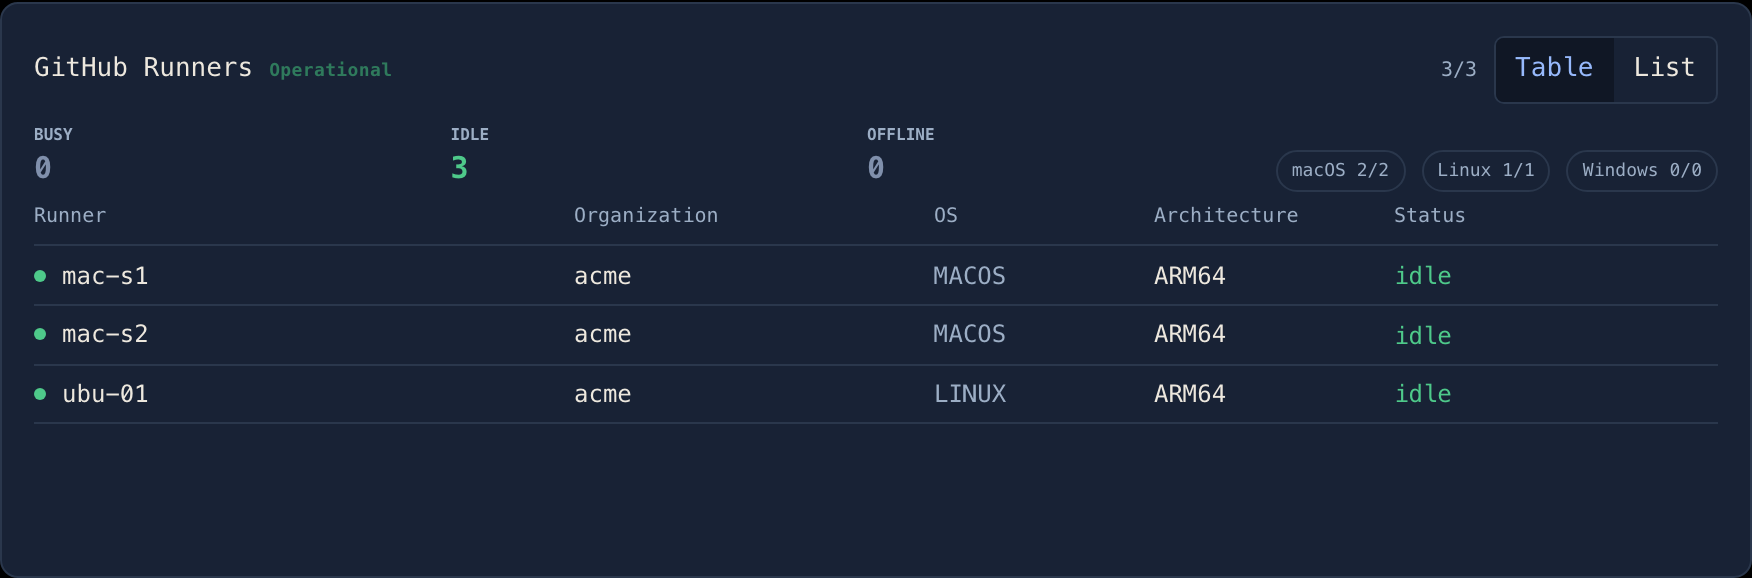
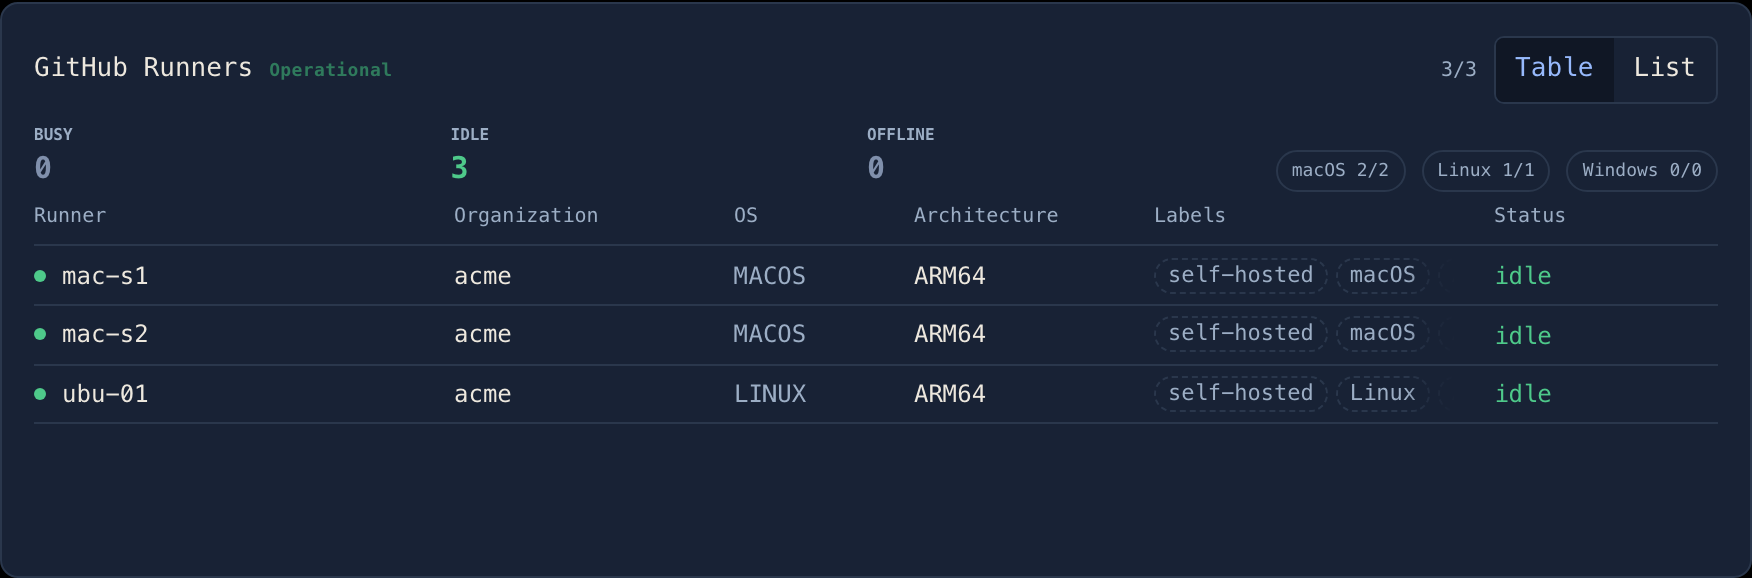
docs: where a setting lives, and runner groups that split only where a label appears
app/README.md gains a Where a setting lives section: the four placement
rules, runner group labels as the worked example, and today's inventory
with follow-ups #612-#616 for what does not fit yet. The runner-group,
roster and smoke-check passages, AGENTS.md and the root README now say the
labels live in the Runners tile's Configure, a platform splits only where a
listed label appears, and an unrecorded runner joins other. Screenshots
regenerated for the Labels column.

diff --git a/app/README.md b/app/README.md
@@ -173,25 +173,51 @@ members. **Open full panel** carries the selected group into Full; the tile's
 choice applies to both Detail and Full; List stays in one vertical column.
 In Full, **All runners** clears the temporary filter, and returning to Overview
 restores the inline Detail selection. Membership and counts follow live readings
-in both views; a type with no remaining members says so instead of showing other
-types. Full runner rows include architecture and retain the absent runner's
-Forget action.
+in both views; a group with no remaining members says so instead of showing
+other groups. Full runner rows include architecture and labels and retain the
+absent runner's Forget action. A long group name wraps in a small tile rather
+than being cut off.
+Detail and Full show each runner's **labels** as chips, in a Labels column and
+on each List row: the label that decided its group is highlighted, GitHub's own
+(`self-hosted`, the OS, the architecture) are muted, and a remembered absence
+whose labels were never recorded reads `— not recorded`. Chips lead with the
+label that matched, then your own, then GitHub's. A List row wraps them; a table
+cell keeps its row compact on one line, so a narrow cell gives up GitHub's
+labels first (the OS and Architecture columns already say them), and its
+tooltip names every label. The Labels column has a base width like every other
+column, so it does not push **Status** out of a half-width Full panel. A group opened in
+Detail or Full names what put its runners there: `matched by runner-large`, or
+for `other`, `carries none of your group labels` — with `· 2 not recorded`
+appended when some of its runners' labels were never recorded, and `labels not
+recorded` when none were.
 Table supports the context-menu key or Shift+F10 on an absent runner as well as
 right-click. Full panels share Detail's palette and heading style; focused Full
 panels fit their rows rather than reserving an empty list area.
 Architecture comes from GitHub's ARM64, X64 or ARM labels and survives in the
 absence roster. Missing or conflicting labels render Unknown architecture.
-**Runner group labels** (Settings → Preferences) split each type further, by
-labels your runners carry: list `runner-large` and Linux · X64 becomes
-`LINUX · X64 · runner-large` and `LINUX · X64 · other`. A runner joins the group
-of the first listed label it carries, matched ignoring ASCII case the way GitHub
-matches `runs-on`; one carrying none is `other`. Nothing is listed until you
-list it, and with nothing listed the types are exactly OS · architecture. Each
-listed label says how many runners carry it (`runners not read yet` before the
-first read), so a typo that would put every runner in `other` shows where it
-was typed. Every label survives in the absence roster too, so a recycling
-runner keeps its group; a roster record from before labels were stored reads
-`labels unknown` under a split — never `other` — until its next sighting.
+**Runner group labels** split a type further, by labels your runners carry.
+They are edited in any Runners tile's **Configure**, under **Group by labels**:
+a shared setting, saved on the click, that applies everywhere runners appear —
+every Runners tile and the Full view (see [Where a setting
+lives](#where-a-setting-lives)). **A type splits only where a listed label
+appears**: list `runner-large` and, if a Linux · X64 runner carries it, Linux ·
+X64 becomes `LINUX · X64 · runner-large` and `LINUX · X64 · other`, while a type
+where no runner carries it stays one plain `OS · ARCH` group with no `· other`.
+The split is decided across every runner Solador knows — every organization,
+registered runners and remembered absences — never per tile, so a group means
+the same thing in a tile, its Detail and Full. A runner joins the group of the
+first listed label it carries, matched ignoring ASCII case the way GitHub
+matches `runs-on`; one carrying none is `other`. **Move up** / **Move down**
+reorder the list, which is the order that first match reads. Nothing is listed
+until you list it, and with nothing listed the types are exactly OS ·
+architecture. Each listed label says how many runners carry it (`runners not
+read yet` before the first read), so a typo that would put every runner in
+`other` shows where it was typed, and labels your runners carry that are not
+listed appear under **Seen on your runners**, one click from being added. Every
+label survives in the absence roster too, so a recycling runner keeps its
+group; a roster record from before labels were stored joins `other` (or the
+plain group, where there is no split) until its next sighting, and keeps its
+alarm — a missing runner still turns its group red.
 The group is decided once per runner row in Rust (`groupId`, `groupLabel`,
 `groupRank`), and the tile, Detail and Full all read it, so a group always
 opens onto the runners it counted.
@@ -341,6 +367,47 @@ the tile check. A further placement check verified the native dropdown, live
 order preview, duplication beside the original, explicit insertion after
 Runners, focus on the saved tile, and Undo back to the original layout. Return
 in the position picker did not save the draft. See the recorded runs below.
+
+### Where a setting lives
+
+One rule decides where a control goes, so an operator looking for a setting
+looks where it acts:
+
+| # | If the setting… | It lives in… |
+|---|---|---|
+| 1 | changes what a tile shows | that tile's **Configure** |
+| 2 | is about reaching a source (token, account, host, address, or the opt-in to read another program's sign-in) | **Settings → Connections**. The tile's Configure links there instead of copying the control. |
+| 3 | is app-wide, with no single tile behind it (crash reporting, updates, Full view layout) | **Settings** |
+| 4 | is shared by several places | can be edited from a tile's Configure, but the control **says it is shared** |
+
+In-place actions on an item, such as hiding a volume from the Disk strip or
+acknowledging a warning in Detail, are shortcuts, not homes, and are not ruled
+on here.
+
+**Worked example: runner group labels** (rule 4). The labels change what every
+Runners tile and the Full view show, so they are edited where the groups are
+seen, in a Runners tile's Configure → **Group by labels**, and the section says
+`Shared · saved immediately · applies everywhere runners appear: every Runners
+tile and the Full view.` They save on the click (`runner_group_label_add` /
+`_move` / `_remove`), not with the tile's **Save**, because a shared list cannot
+wait on one tile's draft. They used to live under Settings → Preferences, apart
+from the groups they split, where an operator who had just added one could not
+find it.
+
+**Where things are today**, and the follow-up that applies the pattern to what
+does not fit it yet:
+
+| Setting | Lives in | Fits? |
+|---|---|---|
+| Rows to show, repo checklist, sorting, Disk strip, runner view | the tile's Configure | rule 1 |
+| Runner group labels | Runners tile Configure, marked shared | rule 4 |
+| Accounts, tokens, hosts, providers, plan-limit opt-ins | Settings → Connections | rule 2 |
+| Crash reporting, updates, Full view layout | Settings | rule 3 |
+| CPU/RAM thresholds (Preferences), per-machine overrides (Connections), hidden volumes (three places) | split | [#612](https://github.com/Sassy-Dog/solador/issues/612): Machines tile Configure |
+| Container Group Rules | Settings → Connections, under each machine | [#613](https://github.com/Sassy-Dog/solador/issues/613): Containers tile Configure |
+| Panel Poll Cadence | Settings → Preferences | [#614](https://github.com/Sassy-Dog/solador/issues/614): each tile's Configure, with its floor |
+| Refresh Interval (GitHub, Services, Claude rollups) | Settings → Preferences | [#615](https://github.com/Sassy-Dog/solador/issues/615): rule 3 or rule 4, to decide |
+| CPU core rows, Row spacing | Settings → Preferences | [#616](https://github.com/Sassy-Dog/solador/issues/616): Machines tile or Full view layout, to decide |
 
 ### Settings and connections
 
@@ -1051,9 +1118,12 @@ with the reason in the `footer` field (`staleAfter: 150s`), which the frontend
 paints **beside the panel title, not under its body** — see "Where a warning
 goes" below. Rows name their org only when more than one is watched. Roster
 records also retain optional `architecture` and `labels` for the overview's
-type counts; older records without them remain readable and show Unknown
-architecture (or, under a group-label split, `labels unknown`) until a
-successful sighting supplies them.
+type counts and the Labels column; older records without them remain readable,
+show Unknown architecture, join `other` under a group-label split (the plain
+group otherwise) and read `— not recorded` for labels until a successful
+sighting supplies them. The split itself is decided across every org's rows and
+absences together (`split_platforms`), so a type splits the same way in every
+tile, whichever orgs it is scoped to.
 
 **Applied without a restart.** The token and the portfolio are re-read on every
 pass, and `github_wake` cuts the sleep short after a Save, a Clear, a portfolio
@@ -2807,7 +2877,7 @@ and that immediacy is itself the check on the corresponding wake:
 | `settings_move_panel` / `settings_set_panel_span` / `settings_reset_layout` | under Settings → **Full view layout**, set **Usage** to *Full width*, press **Move up** once, then **Done** | the preview re-draws under each edit (`Saved.` on the status line), and the cockpit shows the new arrangement the moment Settings closes. **Reset to default** — enabled only once you have edited something — puts it back. A change that survives the preview but not the close means `cockpit` is not re-reading the store |
 | `settings_add_breakpoint` / `settings_remove_breakpoint` | in Settings → **Full view layout**, type `1816` under *Applies from (pt)* and press **Add**, edit the new band, then **Remove breakpoint** | the switcher gains `1816pt and up`, selected, holding a copy of what applied there; editing it leaves *Any width* untouched (switch back and check). With one band left **Remove breakpoint** is disabled |
 | `settings_save_panel_interval` / `settings_clear_panel_interval` | under Settings → **Preferences** → **Panel Poll Cadence**, set **Containers/VMs** to `1` and press **Apply**; then set it to `30` and **Apply**; then press **Use default** | the `1` is **refused** — one sentence naming the panel, its 5-second floor, why that floor exists and what you asked for — and the row still reads `Using the default, 10 seconds`, because nothing was written. `30` saves, the row becomes `Set to 30 seconds…` and **Use default** goes live; pressing it puts the row back to the default wording. A refusal that silently stores `5` instead is the defect this row exists to catch |
-| `settings_add_runner_group_label` / `settings_remove_runner_group_label` | with runners showing, under Settings → **Preferences** → **Runner Group Labels**, type a label one of your runners carries (e.g. `runner-large`) and press **Add**; type the same label in other capitals and **Add** again; then **Remove** it | the first saves and the row reads `carried by N runners`, and the overview's Runners tile splits that type into `· <label>` and `· other` on its next frame, with no restart and no poll; clicking either opens Detail onto exactly its runners. The second is **refused** as already listed. **Remove** puts the tile back to plain OS · architecture types. A count of `no runner carries this label` for a label that is on screen is the defect this row exists to catch |
+| `runner_group_label_add` / `runner_group_label_move` / `runner_group_label_remove` | with runners showing, **Edit dashboard** → the Runners tile's **Configure** → **Group by labels**: type a label one of your runners carries (e.g. `runner-large`) and press **Add**; type the same label in other capitals and **Add** again; add a second label from **Seen on your runners** and press **Move up** on it; then **Remove** both | the first saves on the click, before **Save**, and the row reads `carried by N runners`; the tile preview splits only the type where a runner carries it into `· <label>` and `· other`, every other type stays plain, and after leaving editing a click on either group opens Detail onto exactly its runners, its Labels column highlighting the label that matched. The second is **refused** as already listed. **Move up** reorders the list, and a runner carrying both labels moves to the group of whichever label is now first. **Remove** puts the tile back to plain OS · architecture types, and Settings → **Preferences** has no group-label editor at all. A count of `no runner carries this label` for a label that is on screen is the defect this row exists to catch |
 | usage providers | save a Neon org key and/or Sentry `org:read` token | sections appear in seconds. A key with **no org id** renders `—` on both figures, never `0.0 CU-h` |
 | `settings_save_machine_alerts` | in Preferences → Machine alerts, set RAM warning/critical to `90`/`98` and Apply; then open one machine in Connections, clear Use shared defaults and choose its own limits; re-enable shared defaults and Apply | the next Machines frame uses the saved limits for meter colors, row dots and attention counts; another host's override stays independent. Invalid ordering is refused without losing the draft, and saved choices survive reopening the app |
 | `machine_acknowledge_warning` | open a machine with a CPU/RAM warning in Details, acknowledge that metric, relaunch, then clear it from the same details (try Table and List) | the warning alone leaves Needs Attention, its reading stays amber with a ✓ beside the value, and the saved choice survives relaunch. A critical reading still needs attention and has no ✓. Other metrics/hosts still alert. Clear restores warning attention; a failed save leaves the prior choice visible and retryable |

diff --git a/AGENTS.md b/AGENTS.md
@@ -57,11 +57,18 @@ detailed than this file.
   frozen, and its footer says so (`runners_error_message`) instead of the
   PAT-scope hint.
   Runner groups are OS · architecture, split by the operator's **runner group
-  labels** (`store.json`'s `runner_group_labels`, Settings → Preferences): a
-  runner joins the group of the first listed label it carries (ASCII
+  labels** (`store.json`'s `runner_group_labels`, edited in a Runners tile's
+  Configure and marked shared — see **Where a setting lives** in
+  `app/README.md`). **An OS · architecture splits only where a listed label
+  appears**: into one group per listed label a runner carries, plus `other`;
+  one where no runner carries any stays a plain `group:OS:ARCH` with no
+  `· other`. That split is decided once across every org's runners and
+  remembered absences (`split_platforms`), never per tile scope. A runner
+  joins the group of the first listed label it carries (ASCII
   case-insensitive, as GitHub matches `runs-on`), one carrying none is
-  `other`, and one whose labels are unknown — a roster entry from before
-  labels were remembered — is `labels unknown`, never `other`. Nothing is
+  `other`, and so is one whose labels were never recorded — a roster entry
+  from before labels were remembered — which keeps its alarm and reads
+  `— not recorded` in the Labels column Detail and Full show. Nothing is
   seeded, for the container rules' reason. `viewmodel::dashboard::runner_group`
   decides a row's group once, in `runner_row`, and every view reads its
   `groupId`/`groupLabel`/`groupRank` rather than re-deriving it — which is
@@ -1104,6 +1111,11 @@ the bundle's floor.
   roster so absences retain their type, and every label is carried the same way
   so absences retain their group; unknown stays unknown.
   See `app/README.md` for controls, count meanings and responsive behavior.
+- **Where a setting lives**: see `app/README.md`'s section of that name — what
+  changes a tile goes in its Configure, what reaches a source in Settings →
+  Connections, what is app-wide in Settings. A shared setting edited from a tile
+  says it is shared. Its inventory names the follow-ups (#612–#616) for the
+  settings that do not fit yet, the CPU/RAM thresholds below among them.
 - Settings → Preferences has shared CPU/RAM alert thresholds; Connections has
   per-machine overrides, including the local machine. Defaults remain 70/90%.
   The CPU pair applies to **sustained** load (#545): the minimum of the last

diff --git a/README.md b/README.md
@@ -77,8 +77,9 @@ Volumes you don't care about can be hidden per machine from the tile, Detail or 
 and a Machines tile can drop its Disk strip. GitHub Repos supports
 per-tile repository selection, sortable columns and an All rows option.
 Runners can show every individual runner or counts grouped by OS and architecture,
-optionally split by runner labels you list in Settings → Preferences — `runner-large`,
-say, to see large and small runners apart.
+optionally split by runner labels you list in the Runners tile's Configure — `runner-large`,
+say, to see large and small runners apart. Only an OS and architecture where a runner
+carries one splits, and Detail and Full show every runner's labels.
 
 | Panel | Reads |
 |---|---|
